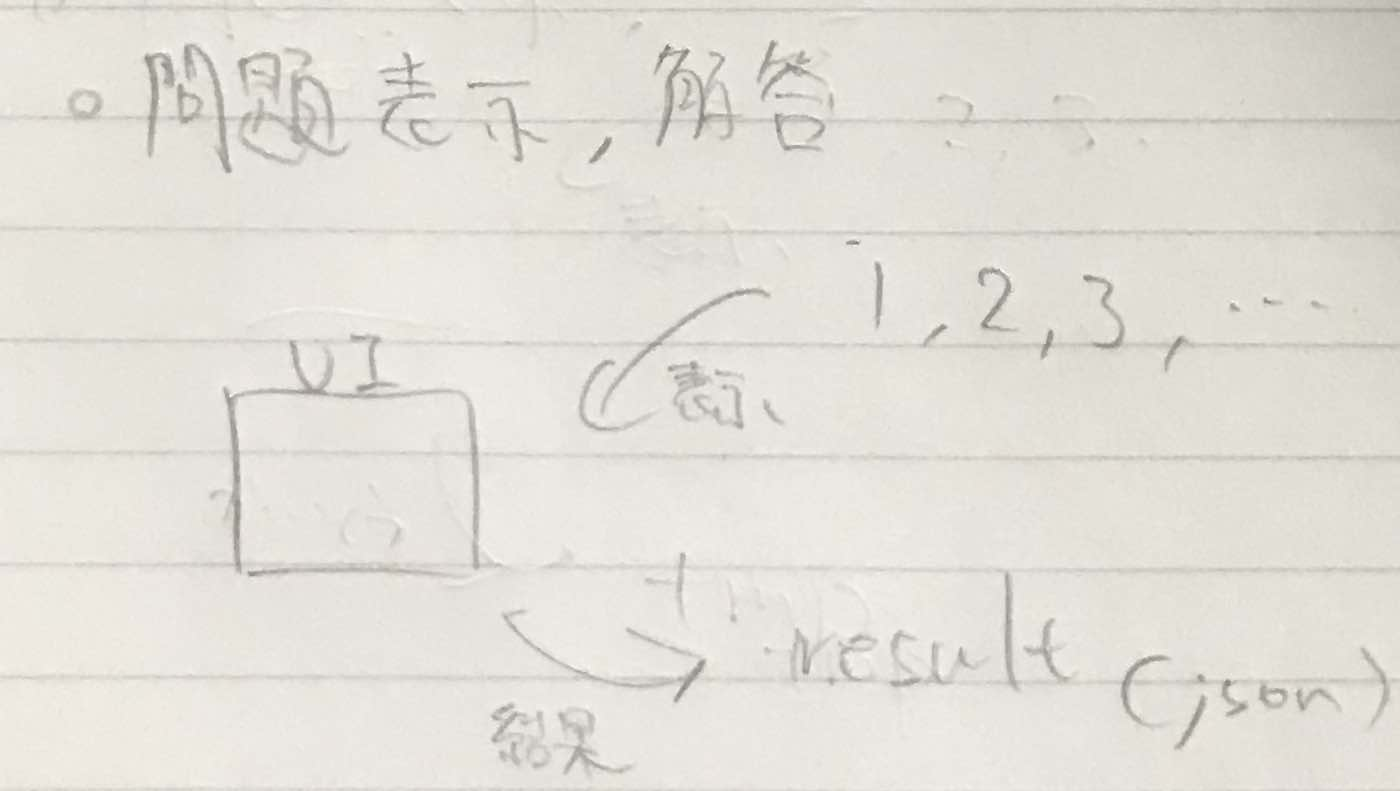
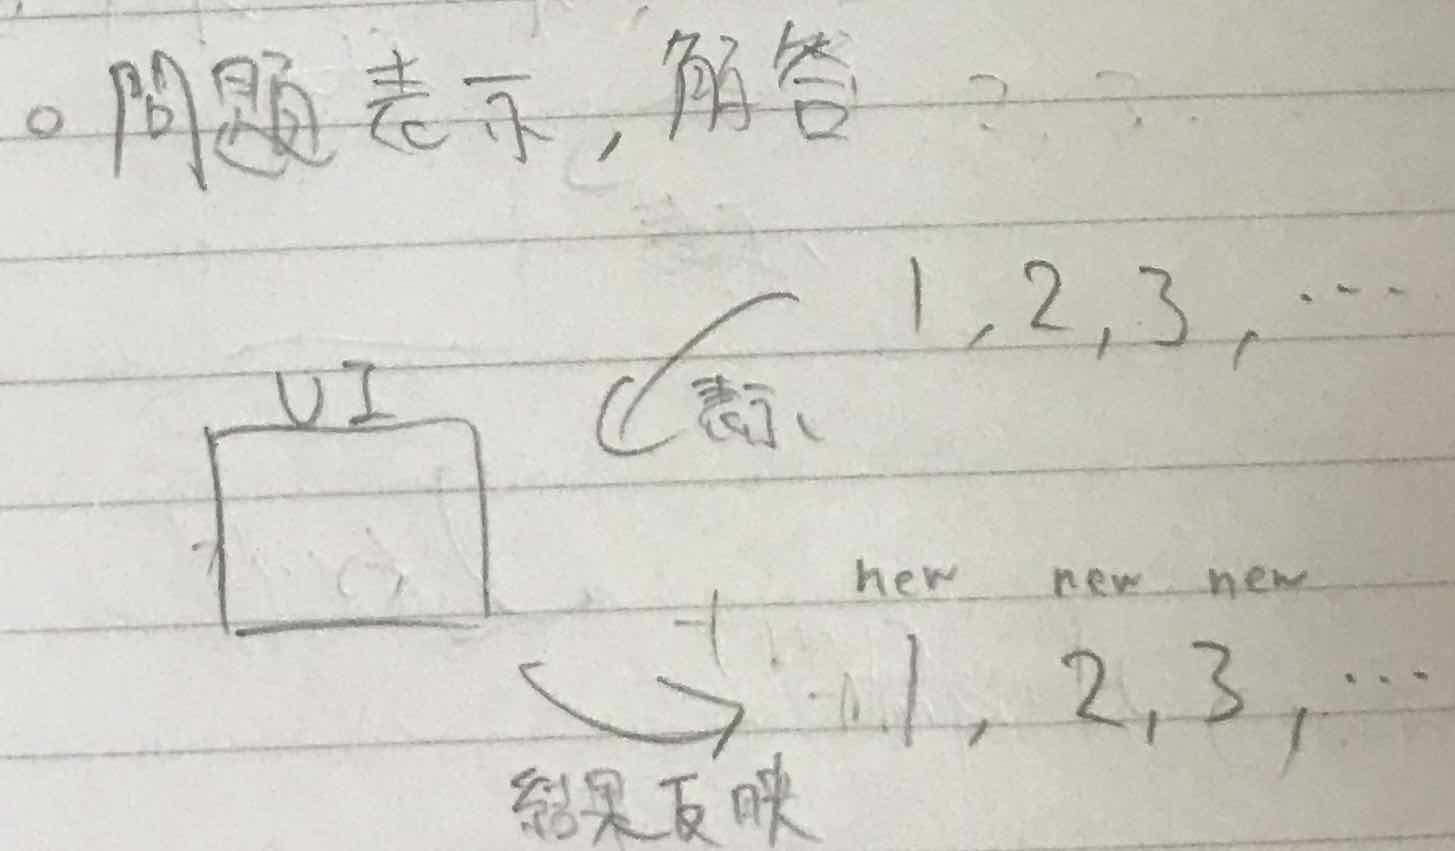
記事追加

diff --git a/content/blog/learning-chinese-application/index.md b/content/blog/learning-chinese-application/index.md
@@ -1,7 +1,7 @@
 ---
 title: 中国語勉強支援ツールのアルゴリズム構想
 created: 2021-11-07T20:01
-updated: 2021-11-08T18:26
+updated: 2021-11-09T11:45
 description: Github上に数式を載せられないのでここに載せる
 category: memo
 tag: [learning-chinese-application]
@@ -18,9 +18,9 @@ https://github.com/wabetarou/learning-chinese-application/
 
 ### 変数の設定
 
-- 登録した単語とその言語情報（漢字、拼音、和訳）を$w_i$とする
-- それぞれの単語 $w_i$ に関する情報
-  - 単語情報 $w_i$
+- それぞれの単語に関する情報
+  - 単語情報 $i_i$
+    - 登録した単語とその言語情報（漢字、拼音、和訳）を$i_i$とする
   - フェーズ $p_i \in \{0,1,2\}$
   - 正誤履歴 $h_{i1},...,h_{i5}$
     - $h_{ij} \in \{0,0.5,1\}$
@@ -30,6 +30,7 @@ https://github.com/wabetarou/learning-chinese-application/
   - 正答率 $r_i = \frac{\sum_{1\le j \le 5}{h_{ij}}}{5}$
   - 猶予期間 $s_i = 54644 \times 1.048^{r_i \times 100}$（秒）
   - 重み $w_i$ = $max\{1000,exp(\frac{t_{now}-t_i-s_i}{s_i})\}$
+    - 初期値 0.1 （初見より一度でも学習したものが優先されて出現する）
   - 出現確率 $p_i$
 
 ### 詳しい説明と具体例

diff --git a/content/blog/learning-chinese-application-data/index.md b/content/blog/learning-chinese-application-data/index.md
@@ -1,7 +1,7 @@
 ---
 title: 中国語勉強支援ツールの流れ
 created: 2021-11-08T18:23
-updated: 2021-11-08T18:51
+updated: 2021-11-09T12:24
 description: 起動から終了まで
 category: memo
 tag: [learning-chinese-application]
@@ -12,7 +12,7 @@ https://github.com/wabetarou/learning-chinese-application/
 
 このツールを起動してから終了するまでに何をするのかの説明
 問題提示の順番のアルゴリズムは以下に記載
-https://narazuke.github.io/learning-chinese-application/v
+https://narazuke.github.io/learning-chinese-application/
 
 ## 起動
 
@@ -32,10 +32,10 @@ https://narazuke.github.io/learning-chinese-application/v
    ![](03.jpg)
 3. UI に問題を順番に表示
 4. （手動）問題に解答する
-5. 結果を`result.json`に記録する
+5. 結果を元にインスタンスの情報を更新
    ![](04.jpg)
 
 ## 終了
 
-1. `result.json`に記録されたデータを`data.json`に反映する
+1. 新しいリストを`data.json`に反映する
    ![](05.jpg)

diff --git a/content/blog/kon20211214/index.md b/content/blog/kon20211214/index.md
@@ -1,0 +1,17 @@
+---
+title: 日記
+created: 2021-12-14T19:11
+updated: 2021-12-14T19:15
+description: 師走
+category: diary
+tag: []
+author: [konnyaku]
+---
+
+12 月は寒い
+
+寒い時こそ筋トレ
+
+朝からスクワットやることにします
+
+（足を汚すことで布団に入ることを防ぐ）
